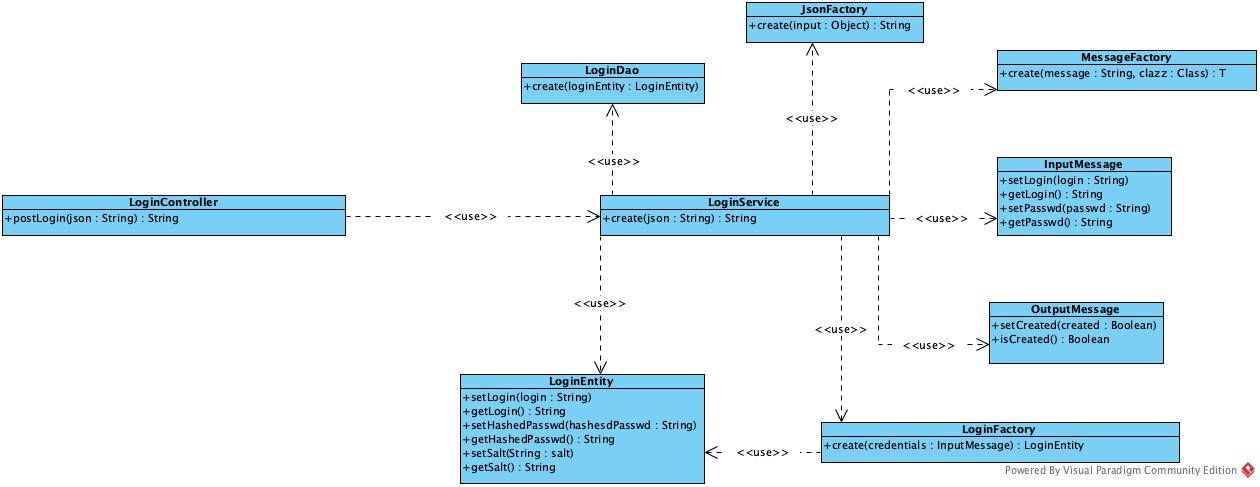
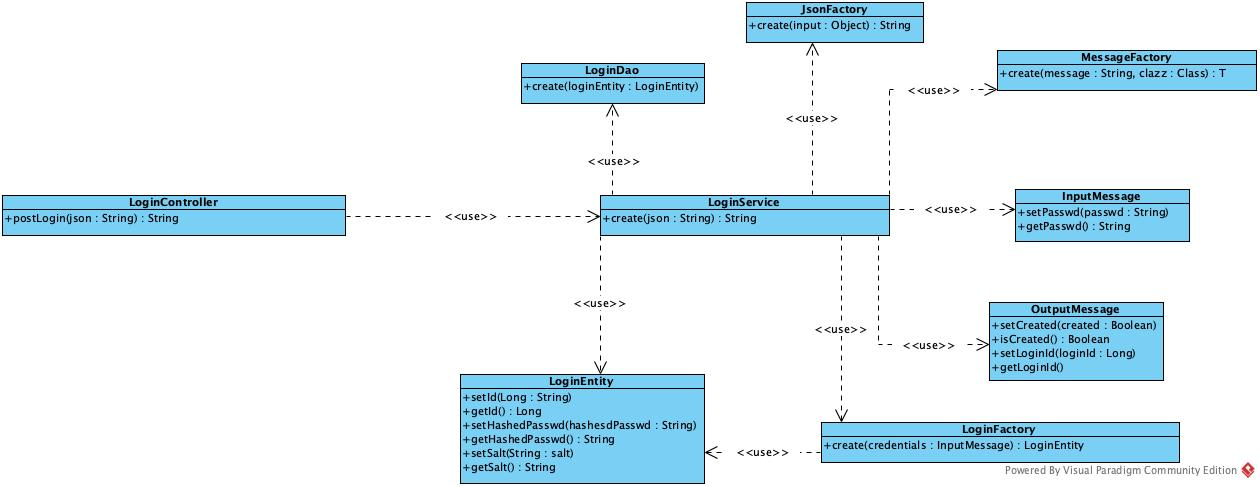
refactor

Changed region(s): [[0.7119, 0.308, 0.9595, 0.5236], [0.7738, 0.7084, 0.9286, 0.8008], [0.3714, 0.8008, 0.4643, 0.8624]]

diff --git a/src/main/java/eu/pstdio/login_creator_api/integration/entity/LoginEntity.java b/src/main/java/eu/pstdio/login_creator_api/integration/entity/LoginEntity.java
@@ -5,8 +5,8 @@ package eu.pstdio.login_creator_api.integration.entity;
  * @author mib
  */
 public interface LoginEntity {
-    void setLogin(String login);
-    String getLogin();
+    void setId(Long id);
+    Long getId();
     void setHashedPasswd(String hashedPasswd);
     String getHashedPasswd();
     void setSalt(String salt);

diff --git a/src/main/java/eu/pstdio/login_creator_api/business/message/InputMessage.java b/src/main/java/eu/pstdio/login_creator_api/business/message/InputMessage.java
@@ -5,8 +5,6 @@ package eu.pstdio.login_creator_api.business.message;
  * @author mib
  */
 public interface InputMessage {
-    void setLogin(String login);
-    String getLogin();
     void setPasswd(String passwd);
     String getPasswd();
 }

diff --git a/src/main/java/eu/pstdio/login_creator_api/business/message/OutputMessage.java b/src/main/java/eu/pstdio/login_creator_api/business/message/OutputMessage.java
@@ -7,4 +7,6 @@ package eu.pstdio.login_creator_api.business.message;
 public interface OutputMessage {
     void setCreated(boolean created);
     boolean getCreated();
+    void setLoginId(Long loginId);
+    Long getLoginId();
 }
